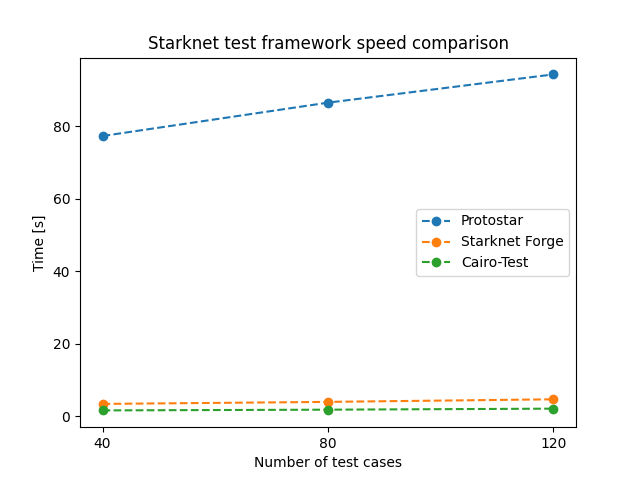
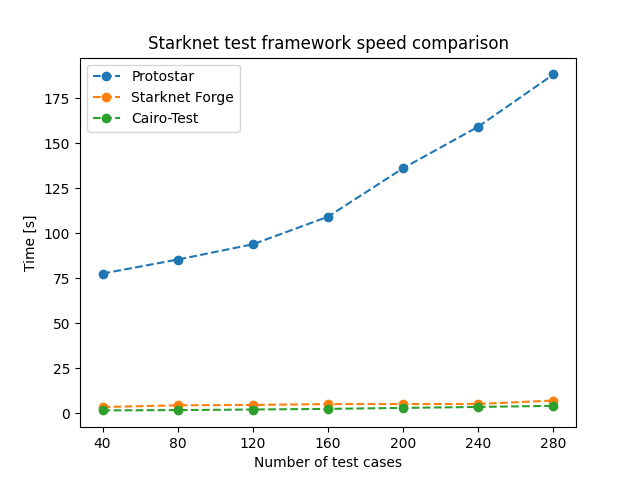
Add more data

diff --git a/benchmarks/benchmark.py b/benchmarks/benchmark.py
@@ -15,7 +15,7 @@ TOOLCHAINS = [
 ]
 
 # (unit, integration)
-TESTS = [(x, x) for x in range(1, 4)]
+TESTS = [(x, x) for x in range(1, 8)]
 CASES_PER_UNIT_TEST = 25
 CASES_PER_INTEGRATION_TEST = 15
 

diff --git a/benchmarks/README.md b/benchmarks/README.md
@@ -5,7 +5,7 @@ To run benchmarks use:
 ```
 python3 benchmark.py
 ```
-(requires Protostar, Scarb and Forge installed)
+(requires [Protostar](https://docs.swmansion.com/protostar/), [Scarb](https://docs.swmansion.com/scarb) and [Forge](../) installed)
 
 
 To later plot the data run
